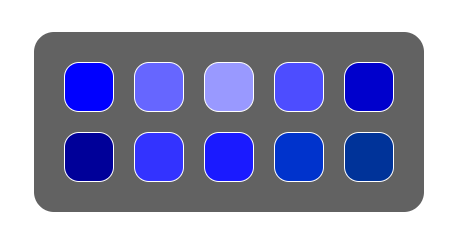
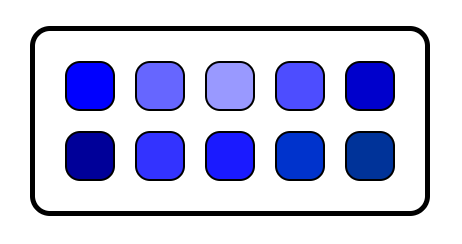
alterações na interface

diff --git a/src/css/tutorial.css b/src/css/tutorial.css
@@ -13,7 +13,7 @@ header{
 
 h1{
     margin-top: 50px;
-    margin-bottom: 50px;
+    margin-bottom: 40px;
 }
 
 main{
@@ -30,8 +30,8 @@ button{
     display: flex;
     justify-content: center;
     align-items: center;
-    background-color: black;
-    color: white;
+    background-color: #000;
+    color: #fff;
     width: 150px;
     height: 40px;
     border: none;
@@ -41,9 +41,9 @@ button{
 }
 
 button:hover{
-    border: 5px solid black;
-    background: white;
-    color: black;
+    border: 5px solid #000;
+    background: #fff;
+    color: #000;
 }
 
 a{
@@ -52,13 +52,13 @@ a{
     align-items: center;
     position: absolute;
     text-decoration: none;
-    color: white;
+    color: #fff;
     width: 150px;
     height: 40px;
 }
 
 a:hover{
-    color: black;
+    color: #000;
 }
 
 
@@ -67,10 +67,8 @@ a:hover{
     display: flex;
     flex-direction: column;
     align-items: center;
-    background-color: #626262;
     padding: 20px 20px;
     border-radius: 20px;
-    margin-bottom: 50px;
 }
 
 .border{
@@ -78,7 +76,7 @@ a:hover{
     flex-direction: column;
     align-items: center;
     width: 18em;
-    border: 3px solid black;
+    border: 5px solid #000;
     border-radius: 20px;
     margin-bottom: 40px;
     padding: 20px;
@@ -87,6 +85,5 @@ a:hover{
 .boder-texts{
     font-size: 14px;
     text-align: center;
-    color: #dCdcdc;
     margin-bottom: 30px;
 }

diff --git a/src/css/colors.css b/src/css/colors.css
@@ -29,10 +29,10 @@ button{
 
 /* Pagina de selecao de cores */
 .box-background-colors{
-    background-color: #626262;
     display: flex;
     flex-direction: column;
     padding: 20px 20px;
+    border: 5px solid #000;
     border-radius: 20px;
     margin-bottom: 50px;
 }
@@ -42,7 +42,7 @@ button{
 }
 
 .styles-btns-colors{
-    border: 1px solid #fff;
+    border: 2px solid #000;
     border-radius: 15px;
     width: 50px;
     height: 50px;
@@ -385,9 +385,8 @@ button{
 /* Pagina onde aparece a cor escolhida pelo usuario */
 #box-choosed-color{
     border-radius: 20px;
+    border: 5px solid #000;
     padding: 20px;
-    background-color: #626262;
-    color: #dCdcdc;
     width: 18em;
     display: none;
 }
@@ -396,9 +395,9 @@ button{
     display: flex;
     justify-content: center;
     background-color: #fff;
-    color: #000;
     padding: 10px 10px;
     width: 155px;
+    border: 2px solid #000;
     border-radius: 20px;
 }
 
@@ -416,7 +415,7 @@ button{
 }
 
 #choosed-color{
-    border: 1px solid #fff;
+    border: 2px solid #000;
     border-radius: 15px;
     width: 50px;
     height: 50px;

diff --git a/src/css/index.css b/src/css/index.css
@@ -43,10 +43,10 @@ footer{
 
 
 .box-choose-color{
-    background-color: #626262;
     display: flex;
     justify-content: center;
     padding: 30px 30px;
+    border: 5px solid #000;
     border-radius: 20px;
     margin-top: 50px;
     margin-bottom: 50px;
